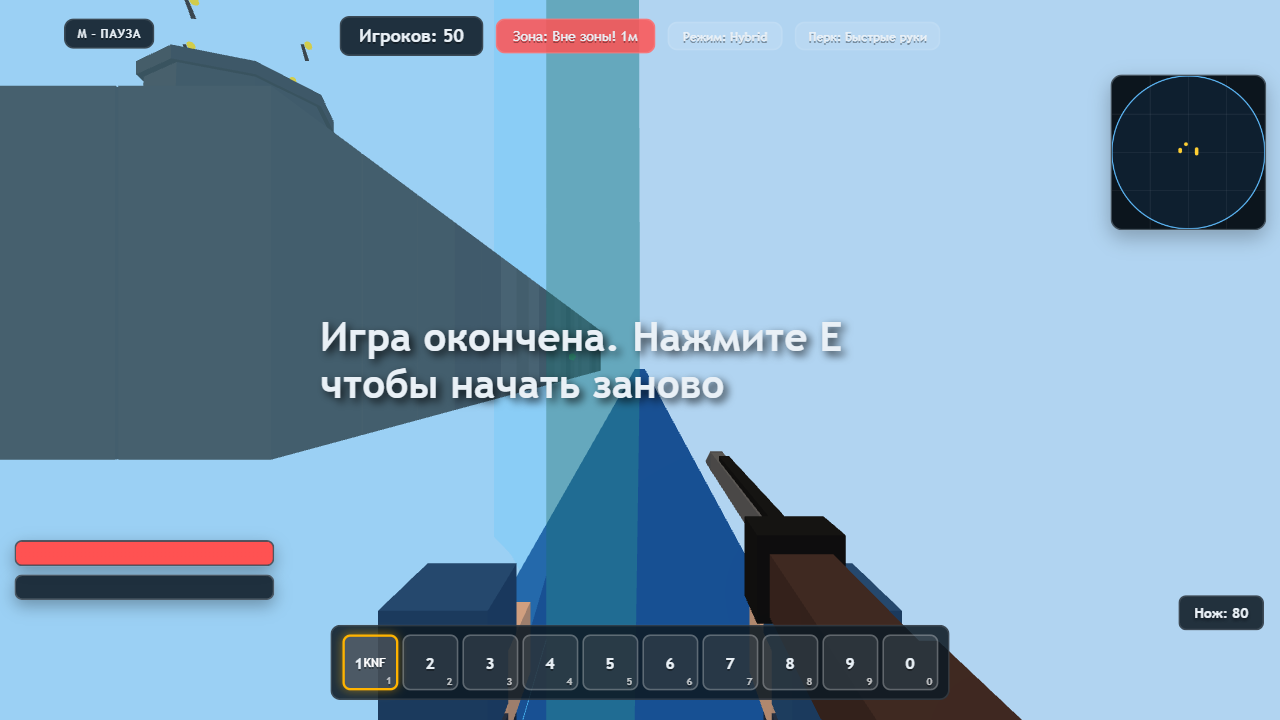
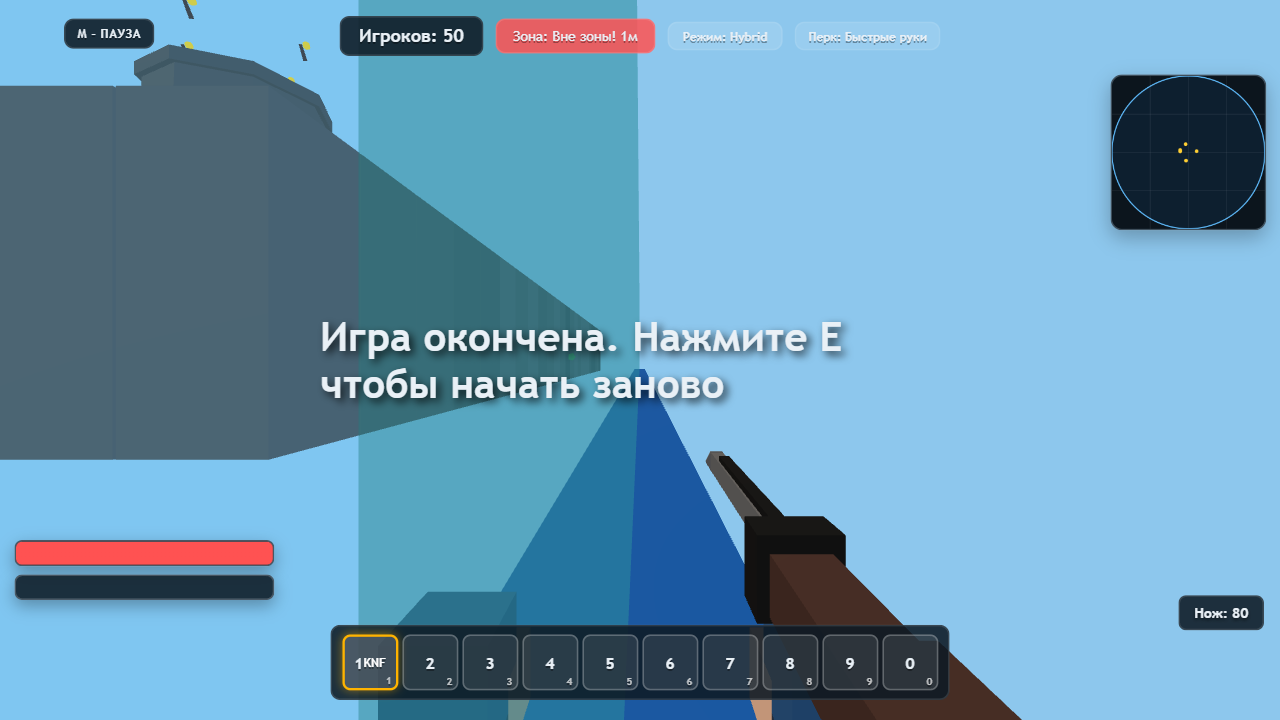
Fix camera rotation synchronization and cache busting

diff --git a/main.js b/main.js
@@ -50,25 +50,25 @@ THREE.DefaultLoadingManager.onLoad = function() {
     }
 };
 
-import { MapGenerator } from './world/MapGenerator.js?v=2';
-import { MapGeneratorNode } from './world/MapGeneratorNode.js?v=2';
-import { DebugOverlay } from './world/DebugOverlay.js';
-import { Environment } from './world/Environment.js';
-import { Physics } from './world/Physics.js';
-import { Zone } from './world/Zone.js';
-import { GameLoop } from './core/GameLoop.js';
-import { Input } from './core/Input.js';
-import { AudioSynth } from './core/AudioSynth.js';
-import { Player } from './entities/Player.js';
-import { Bot } from './entities/Bot.js';
-import { BotBrain } from './entities/BotBrain.js';
-import { Zombie } from './entities/Zombie.js';
-import { ExplosiveBarrel } from './entities/ExplosiveBarrel.js';
-import { EntityManager } from './entities/EntityManager.js';
-import { LootManager } from './items/LootManager.js';
-import { HUD } from './ui/HUD.js';
-import { YandexBridge } from './core/YandexBridge.js';
-import { GAME_CONFIG, ROUND_MODES } from './core/GameBalance.js';
+import { MapGenerator } from './world/MapGenerator.js?v=3';
+import { MapGeneratorNode } from './world/MapGeneratorNode.js?v=3';
+import { DebugOverlay } from './world/DebugOverlay.js?v=3';
+import { Environment } from './world/Environment.js?v=3';
+import { Physics } from './world/Physics.js?v=3';
+import { Zone } from './world/Zone.js?v=3';
+import { GameLoop } from './core/GameLoop.js?v=3';
+import { Input } from './core/Input.js?v=3';
+import { AudioSynth } from './core/AudioSynth.js?v=3';
+import { Player } from './entities/Player.js?v=3';
+import { Bot } from './entities/Bot.js?v=3';
+import { BotBrain } from './entities/BotBrain.js?v=3';
+import { Zombie } from './entities/Zombie.js?v=3';
+import { ExplosiveBarrel } from './entities/ExplosiveBarrel.js?v=3';
+import { EntityManager } from './entities/EntityManager.js?v=3';
+import { LootManager } from './items/LootManager.js?v=3';
+import { HUD } from './ui/HUD.js?v=3';
+import { YandexBridge } from './core/YandexBridge.js?v=3';
+import { GAME_CONFIG, ROUND_MODES } from './core/GameBalance.js?v=3';
 
 class Game {
     constructor(yandexBridge = null) {

diff --git a/world/MapGenerator.js b/world/MapGenerator.js
@@ -128,6 +128,31 @@ export class MapGenerator {
         // Phase 7: Ice quadrant (SE)
         this._generateIceQuadrant();
 
+        // CLEANUP PASS: Remove any biome objects that encroached on the central Cornucopia zone
+        const toRemove = [];
+        for (const child of this.scene.children) {
+            if (child.userData?.mapGenerated && !child.userData?.isCornucopia) {
+                const dist = Math.sqrt(child.position.x * child.position.x + child.position.z * child.position.z);
+                if (dist < 36 && child.position.y > 0.1) {
+                    toRemove.push(child);
+                }
+            }
+        }
+        for (const obj of toRemove) {
+            this.scene.remove(obj);
+            if (obj.geometry) obj.geometry.dispose();
+            if (obj.material) {
+                if (Array.isArray(obj.material)) obj.material.forEach(m => m.dispose());
+                else obj.material.dispose();
+            }
+        }
+        this.colliders = this.colliders.filter(c => {
+            if (c.isCornucopia) return true;
+            const cx = (c.min.x + c.max.x) / 2;
+            const cz = (c.min.z + c.max.z) / 2;
+            return Math.sqrt(cx*cx + cz*cz) >= 36;
+        });
+
         // Phase 8: Cover objects
         this._placeCoverObjects();
 
@@ -1626,6 +1651,8 @@ export class MapGenerator {
             for (let c = 0; c < mazeCols; c++) {
                 const wx = startX + c * cellSize + cellSize / 2;
                 const wz = startZ + r * cellSize + cellSize / 2;
+                
+                if (Math.sqrt(wx*wx + wz*wz) < 35) continue;
 
                 if (grid[r][c] === 1) {
                     const geo = new THREE.BoxGeometry(cellSize - 0.1, wallHeight, cellSize - 0.1);

diff --git a/entities/Player.js b/entities/Player.js
@@ -342,6 +342,16 @@ export class Player {
         return group;
     }
 
+    setRotation(y) {
+        this.rotation.set(0, y, 0);
+        this.euler.set(0, y, 0, 'YXZ');
+        if (this.input && this.input.controls && this.input.controls.getObject()) {
+            this.input.controls.getObject().rotation.set(0, y, 0);
+            this.input.controls.getObject().quaternion.setFromEuler(new THREE.Euler(0, y, 0, 'YXZ'));
+        }
+        this.camera.rotation.set(0, y, 0);
+    }
+
     update(delta, audioSynth, lootManager, entityManager, controls) {
         if (!this.isAlive) return;
         this.audioSynthRef = audioSynth;
@@ -400,6 +410,7 @@ export class Player {
                 controls.getObject().position.copy(this._frozenCamPos);
             } else {
                 this.camera.position.copy(this._frozenCamPos);
+                this.camera.rotation.copy(this.rotation);
             }
             // Skip movement/physics during countdown
             this.physics.velocity.set(0, 0, 0);
